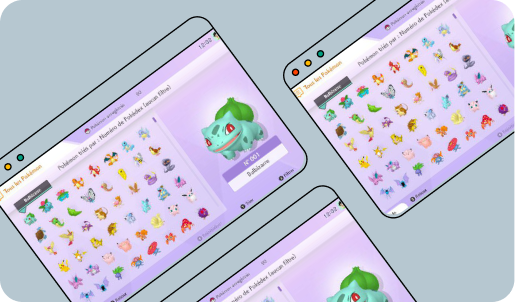
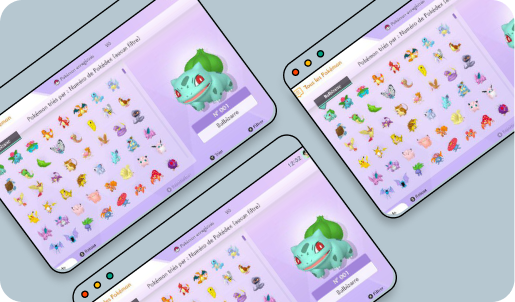
fix: style in portfolio

diff --git a/src/Portfolio/index.js b/src/Portfolio/index.js
@@ -1,50 +1,52 @@
 import React from "react";
-import phoneView from "../images/phoneView.png";
-import pokedexView from "../images/pokedexProject.png";
+import shareMmap from "../images/Share-my-map-ICON.png";
+import pokedex from "../images/Pokedex-ICON.png";
 import Text from "../Text";
 import {
+  Container,
   ImgCustom,
-  PokedexSectionContainer,
-  PokeImgCustom,
+  RightTextSection,
   SectionContainer,
-  TextSection,
+  LeftTextSection,
+  TextCustom,
   SectionShadowContainer,
-  SectionPokedexShadowContainer,
+  RightSectionContainer,
 } from "./styled";
 
 function Portfolio({ text }) {
   console.log("coucou--->", text);
   return (
-    <div>
+    <Container>
       <SectionContainer>
         <SectionShadowContainer>
-          <ImgCustom src={phoneView} alt="phoneView" />
-          <TextSection>
-            <span>Share My Map</span>
+          <ImgCustom src={shareMmap} alt="phonesView" />
+          <LeftTextSection>
+            <TextCustom>Share My Map</TextCustom>
             <Text></Text>
-          </TextSection>
+          </LeftTextSection>
         </SectionShadowContainer>
       </SectionContainer>
-      <PokedexSectionContainer>
-        <SectionPokedexShadowContainer>
-          <PokeImgCustom src={pokedexView} alt="desktopView" />
-          <TextSection>
-            <span>Pokedex</span>
-            <Text />
-          </TextSection>
-        </SectionPokedexShadowContainer>
-      </PokedexSectionContainer>
+
+      <RightSectionContainer>
+        <SectionShadowContainer>
+          <RightTextSection>
+            <TextCustom>Pokedex</TextCustom>
+            <Text></Text>
+          </RightTextSection>
+          <ImgCustom src={pokedex} alt="podexView" />
+        </SectionShadowContainer>
+      </RightSectionContainer>
+
       <SectionContainer>
         <SectionShadowContainer>
-         
-          <TextSection>
-            <span>find Water</span>
+          <ImgCustom src={shareMmap} alt="phoneView" />
+          <LeftTextSection>
+            <TextCustom>find Water</TextCustom>
             <Text></Text>
-          </TextSection>
-        <ImgCustom src={phoneView} alt="phoneView" />
-        </SectionShadowContainer> 
+          </LeftTextSection>
+        </SectionShadowContainer>
       </SectionContainer>
-    </div>
+    </Container>
   );
 }
 

diff --git a/src/Portfolio/styled.js b/src/Portfolio/styled.js
@@ -1,49 +1,34 @@
 import styled from "@emotion/styled";
-import Title from "../component/Title";
-
-
 
 export const Container = styled.section`
-border: 1px solid black;
+  display: flex;
+  flex-direction: column;
 `;
 export const SectionContainer = styled.div`
-display: flex;
-height: 600px;
-align-items: center;
-justify-content: center;
+`;
+export const RightSectionContainer = styled.div`
 `;
 export const SectionShadowContainer = styled.div`
-display: flex;
-padding-bottom: 10px;
-box-shadow: rgba(0, 0, 0, 0.35) 0px 15px 10px -15px;
+  display: flex;
+  padding-bottom: 10px;
+  box-shadow: rgba(0, 0, 0, 0.35) 0px 15px 10px -15px;
 `;
-export const SectionPokedexShadowContainer = styled(SectionShadowContainer)`
-flex-direction: column;
-align-items: center;
+
+export const LeftTextSection = styled.p`
+  padding-right: 5px;
+  padding-left: 5px;
 `;
-export const PokedexSectionContainer = styled.div`
-display: flex;
-flex-direction: column;
-align-items: center;
-height: 500px;
-`;
-export const TextSection = styled.p`
-padding-right: 5px;
-padding-left: 5px;
-text-align: center;
-/* border: 1px solid blue; */
-width: 20%;
-color: #5E7887;
+export const RightTextSection = styled.p`
+  padding-right: 10px;
+  text-align: right;
 `;
 
 export const ImgCustom = styled.img`
-width: 177px;
-height: 329px;
+  margin: 20px;
+  border-radius: 30px;
+  box-shadow: rgba(0, 0, 0, 0.19) 0px 10px 20px, rgba(0, 0, 0, 0.23) 0px 6px 6px;
 `;
-export const PokeImgCustom = styled.img`
-width: 440px;
-height: 299px;
+export const TextCustom = styled.span`
+  font-size: 30px;
+  color: ${({ theme }) => theme.lightColors.beauBlue};
 `;
-
-
-
